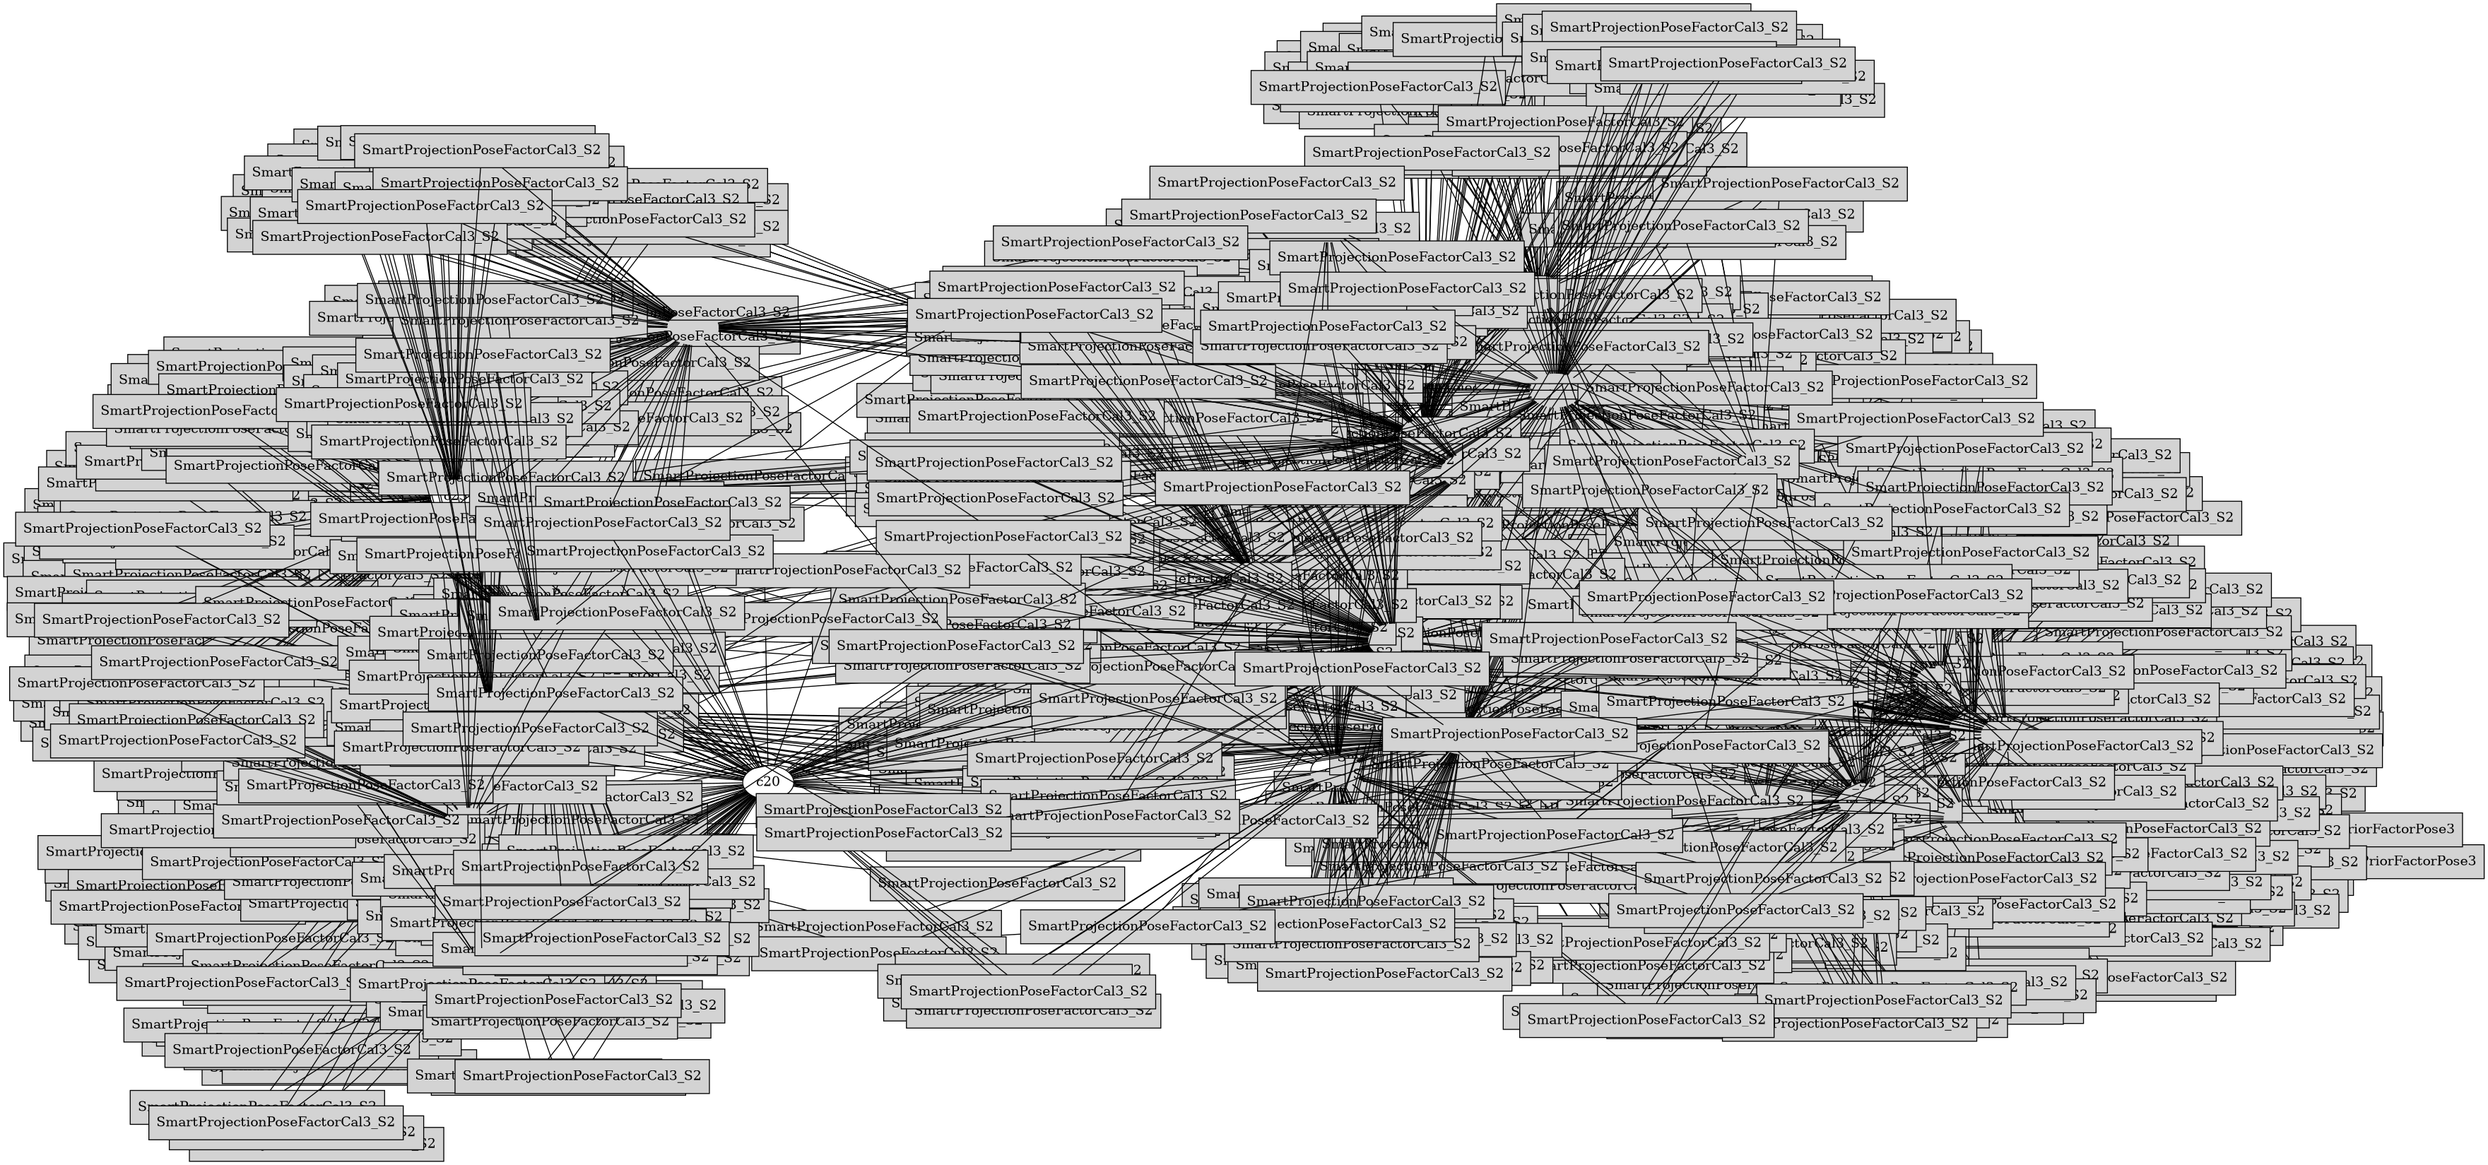
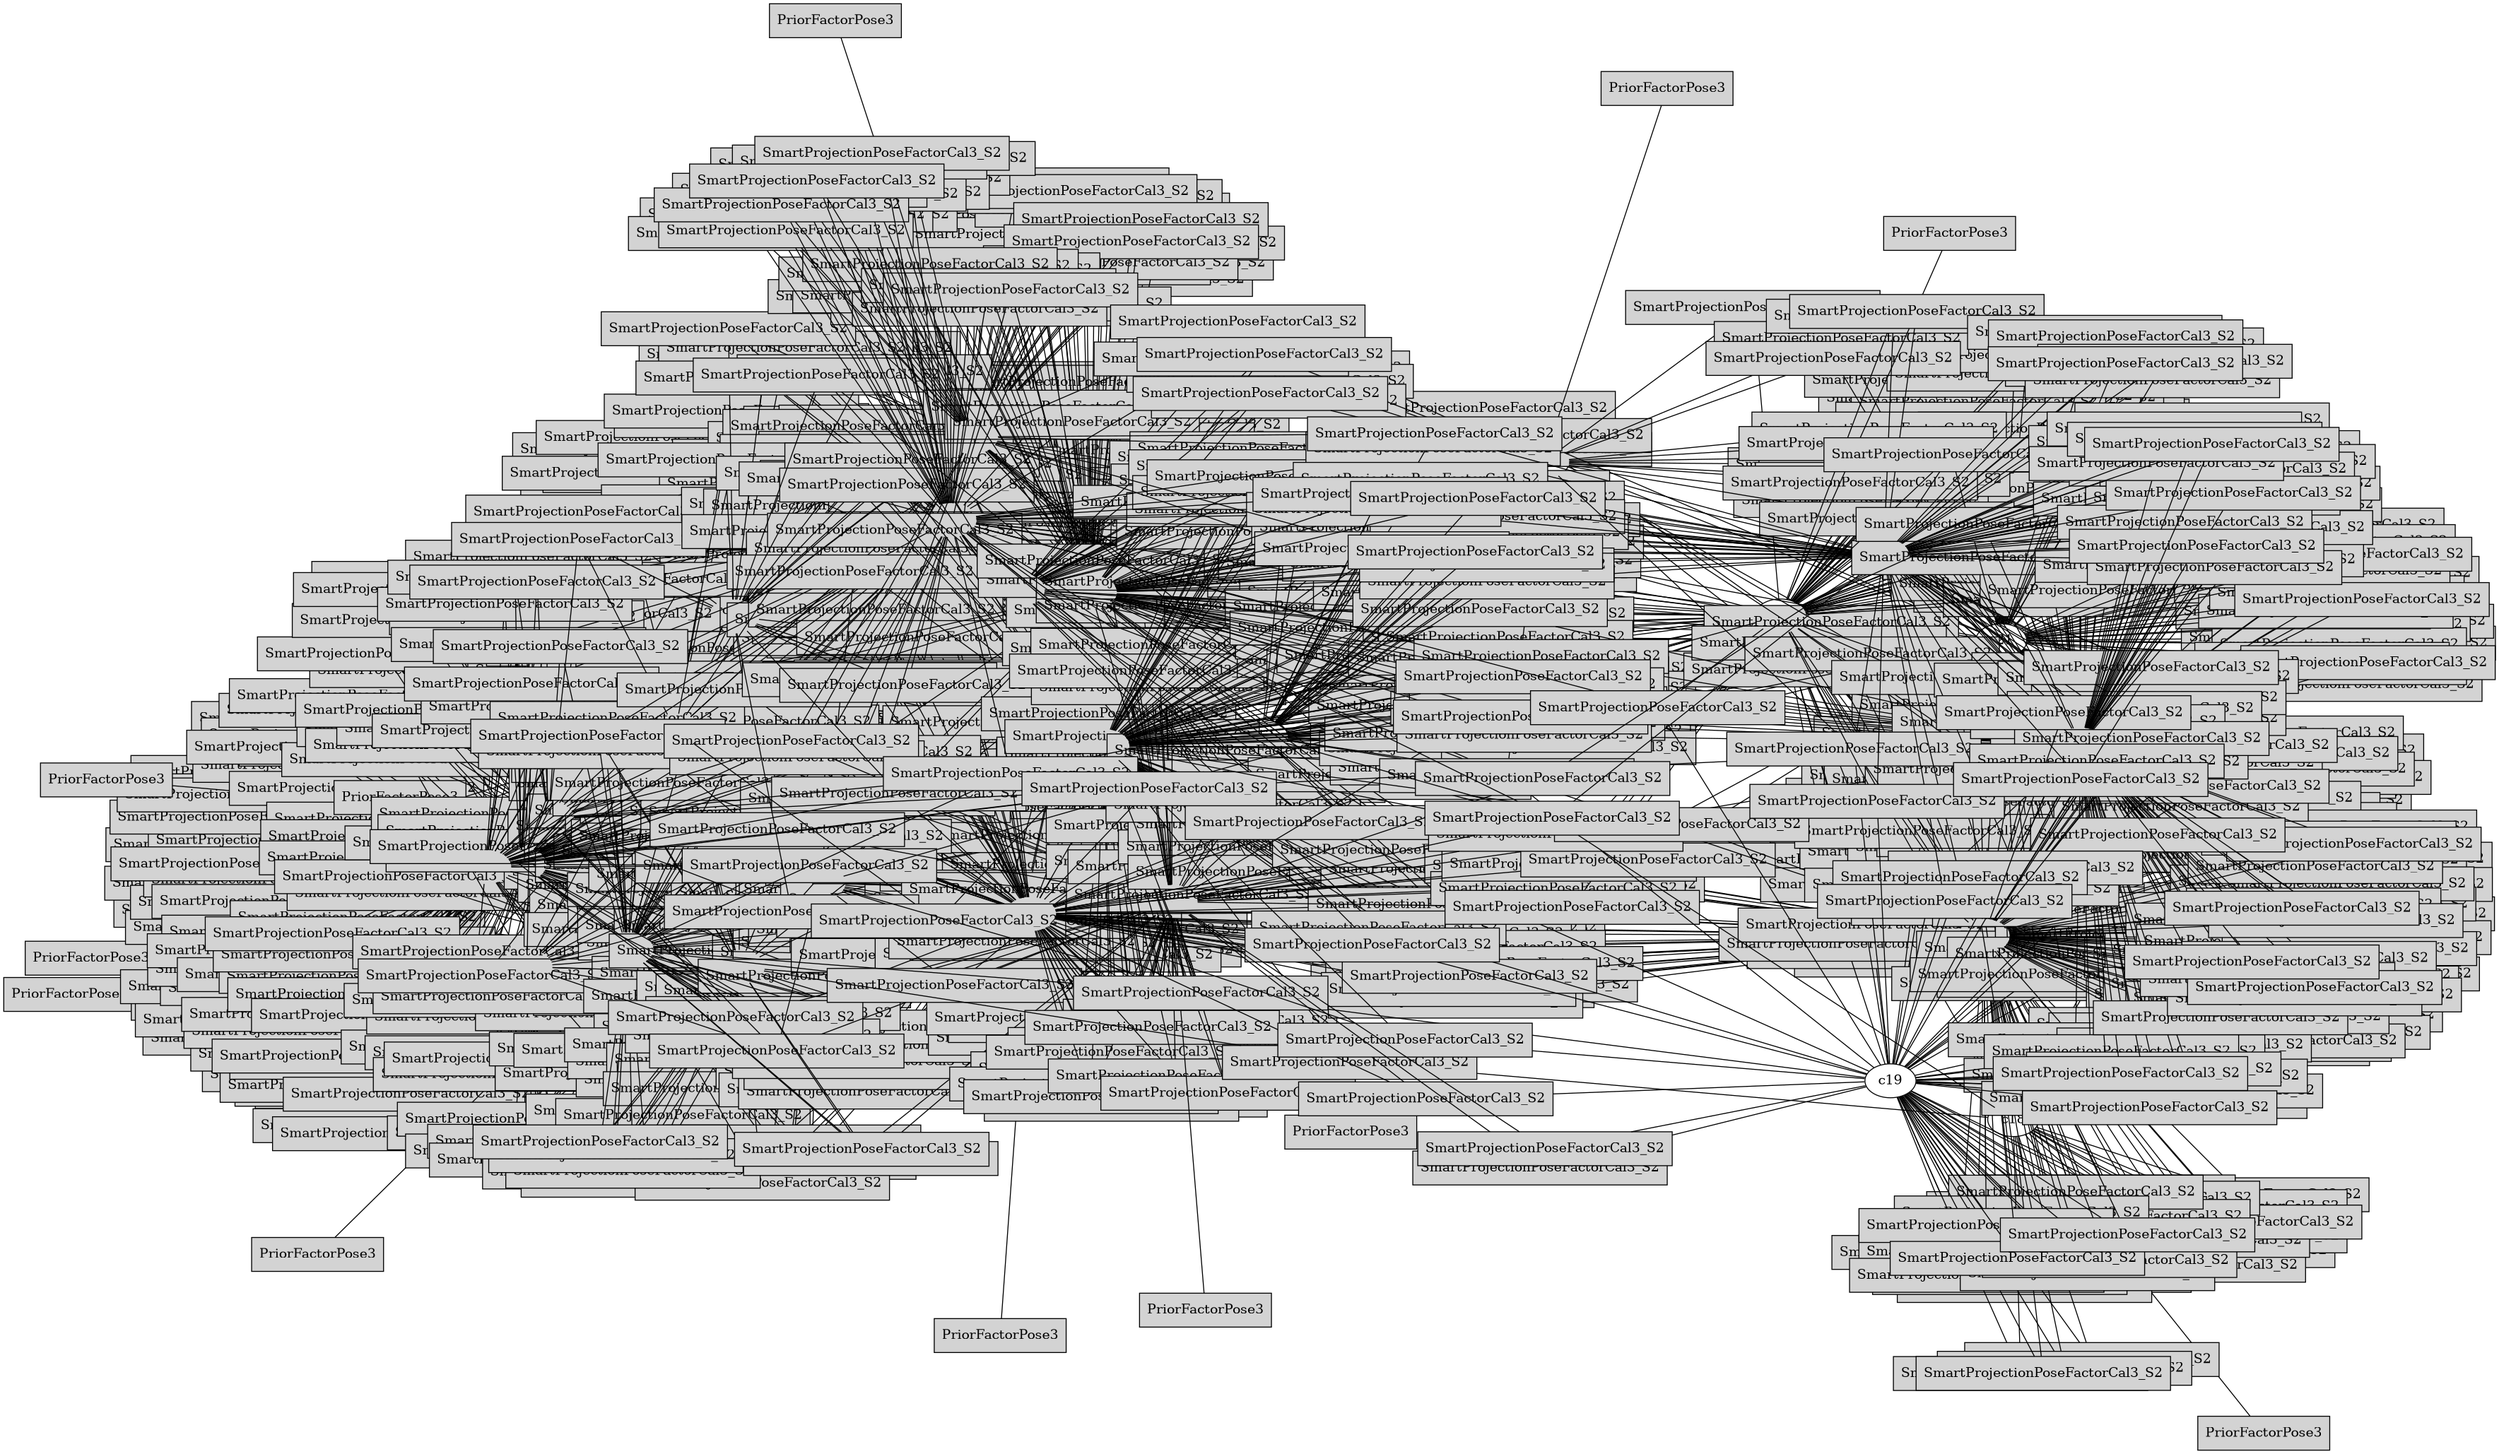
Prior testing to constrain sequential poses

diff --git a/test_map_point_traj.py b/test_map_point_traj.py
@@ -76,8 +76,10 @@ class Application:
                 self.optimizer.update_projection_factor(mp_id, kp, kf_id_int, self.camera)
             if i > 0:
                 self.optimizer.optimize() # Optimize after at least two timesteps have passed
+                if i % 2 == 0:
+                    self.optimizer.add_camera_prior(cam_pose, kf_id_int, prior_sigmas)
             print(i)
-            # if i == 9: break
+            if i == 24: break
 
 
     def plot_gt(self, t, pos_axs: list[plt.Axes], ang_axs: list[plt.Axes]) -> None:
